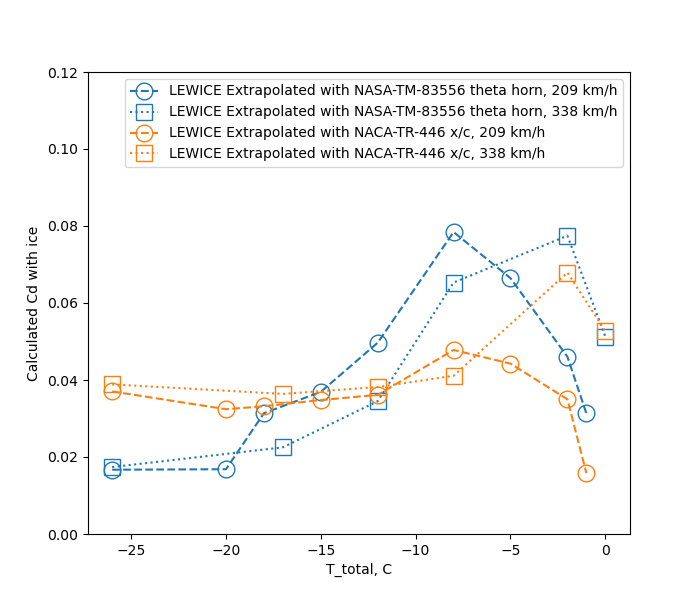
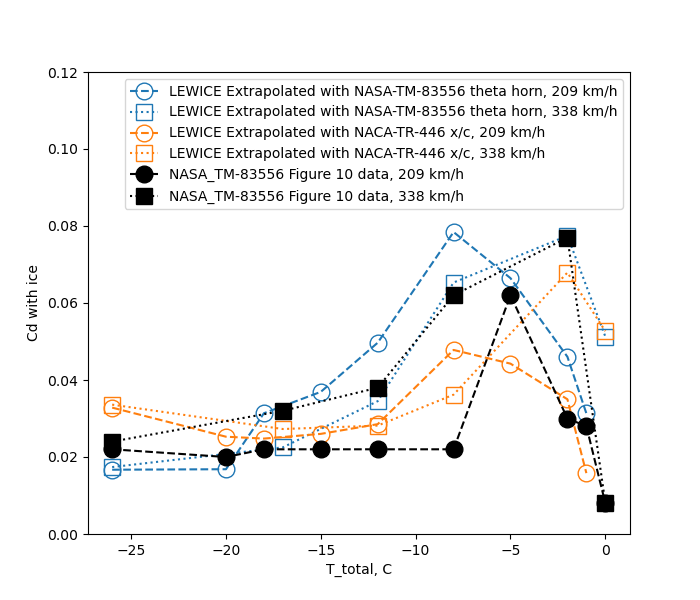
conclusions of ice shapes thread

diff --git a/content/The Historical Selected Bibliography of NACA-NASA Icing Publications.md b/content/The Historical Selected Bibliography of NACA-NASA Icing Publications.md
@@ -92,8 +92,8 @@ While most of the NACA publications are available at the NTRS [^4], some are not
     - Kline, Dwight B.: Investigation of Meteorological Conditions Associated with Aircraft Icing in Layer-Type Clouds for 1947-48 Winter. NACA-TN-1793, 1949.  
     - Kline, Dwight B., and Walker, Joseph A.: Meteorological Analysis of Icing Conditions Encountered in Low-Altitude Stratiform Clouds. NACA-TN-2306, 1951.  
     - Lewis, William: Icing Properties of Noncyclonic Winter Stratus Clouds. NACA-TN-1391, 1947.  
-    - Lewis, William, and Hoecker, Walter H., Jr.: Observations of Icing Conditions Encountered in Flight During 1948. NACA-TN-1904, 1949.  
-    - Lewis, William, Kline, Dwight B., and Steinmetz, Charles P.: A Further Investigation of the Meteorological Conditions Conducive to Aircraft Icing. NACA-TN-1424, 1947.  
+    - Lewis, William, and Hoecker, Walter H., Jr.: Observations of Icing Conditions Encountered in Flight During 1948. [NACA-TN-1904](NACA-TN-1904.md), 1949.  
+    - Lewis, William, Kline, Dwight B., and Steinmetz, Charles P.: A Further Investigation of the Meteorological Conditions Conducive to Aircraft Icing. [NACA-TN-1424](NACA-TN-1424.md), 1947.  
     - Perkins, Porter J.: Preliminary Survey of Icing Conditions Measured During Routine Transcontinental Airline Operation. NACA-RM-E52J06, 1952.  
     - Perkins, Porter J.: Statistical Survey of Icing Data Measured on Scheduled Airline Flights over the United States and Canada from November 1951 to June 1952. NACA-RM-E55F28a, 1955.  
     - Perkins, Porter J.: Icing Frequencies Experienced During Climb and Descent by Fighter-Interceptor Aircraft. NACA-TN-4314, 1958.  
@@ -108,20 +108,20 @@ While most of the NACA publications are available at the NTRS [^4], some are not
     - Hacker, Paul T.: Experimental Values of the Surface Tension of Supercooled Water. NACA-TN-2510, 1951.  
     - Dorsch, Robert G., and Boyd, Bemrose: X-Ray Diffraction Study of the Internal Structure of Supercooled Water. NACA-TN-2532, 1951.  
     - Dorsch, Robert G., and Levine, Joseph: A Photographic Study of Freezing of Water Droplets Falling Freely in Air. NACA-RM-E51L17, 1952.  
-    - Lowell, Herman H.: Maximum Evaporation Rates of Water Droplets Approaching Obstacles the Atmosphere under Icing Conditions. NACA-TN-3024, 1953.  
-    - Hardy, J. K.: Kinetic Temperature of Wet Surfaces A Method of Calculating the Amount of Alcohol Required to Prevent Ice, and the Derivation of the Psychrometric Equation. NACA-ARR-5G13, 1945.  
+    - Lowell, Herman H.: Maximum Evaporation Rates of Water Droplets Approaching Obstacles the Atmosphere under Icing Conditions. [NACA-TN-3024](NACA-TN-3024.md), 1953.  
+    - Hardy, J. K.: Kinetic Temperature of Wet Surfaces A Method of Calculating the Amount of Alcohol Required to Prevent Ice, and the Derivation of the Psychrometric Equation. [NACA-ARR-5G13](NACA-ARR-5G13.md), 1945.  
 
 - Meteorological Instruments
 
     - Neel, Carr B., Jr., and Steinmetz, Charles P.: The Calculated and Measured Performance Characteristics of a Heated-Wire Liquid-Water-Content Meter for Measuring Icing Severity. NACA-TN-2615, 1952.  
-    - Lewis, William, Perkins, Porter J., and Brun, Rinaldo J.: Procedure for Measuring Liquid-Water Content and Droplet Sizes in Super-cooled Clouds by Rotating Multicylinder Method. NACA-RM-E53D23, 1953.  
+    - Lewis, William, Perkins, Porter J., and Brun, Rinaldo J.: Procedure for Measuring Liquid-Water Content and Droplet Sizes in Super-cooled Clouds by Rotating Multicylinder Method. [NACA-RM-E53D23](NACA-RM-E53D23.md), 1953.  
     - McCullough, Stuart, and Perkins, Porter J.: Flight Camera for Photographing Cloud Droplets in Natural Suspension in the Atmosphere. NACA-RM-E50K01a, 1951.  
     - Perkins, Porter J.: Flight Instrument for Measurement of Liquid-Water Content in Clouds at Temperatures Above and Below Freezing. NACA-RM-E50J12a, 1951.  
     - Perkins, Porter J., McCullough, Stuart, and Lewis, Ralph D.: A Simplified Instrument for Recording and Indicating Frequency and Intensity of Icing Conditions Encountered in Flight. NACA-RM-E51E16, 1951.  
     - Brun, Rinaldo J., Levine, Joseph, and Kleinknecht, Kenneth S.: An Instrument Employing a Coronal Discharge for the Determination of Droplet-Size Distribution in Clouds. NACA-TN-2458, 1951.  
     - Levine, Joseph, and Kleinknecht, Kenneth S.: Adaptation of a Cascade Impactor to Flight Measurement of Droplet Size in Clouds. NACA-RM-E51G05, 1951.  
-    - Howell, Wallace E.: Comparison of Three Multicylinder Icing Meters and Critique of Multicylinder Method. NACA-TN-2708, 1952.  
-    - Jones, Alun R., and Lewis, William: A Review of Instruments Developed for the Measurement of the Meteorological Factors Conducive to Aircraft Icing. NACA-RM-A9C09, 1949.  
+    - Howell, Wallace E.: Comparison of Three Multicylinder Icing Meters and Critique of Multicylinder Method. [NACA-TN-2708](NACA-TN-2708.md), 1952.  
+    - Jones, Alun R., and Lewis, William: A Review of Instruments Developed for the Measurement of the Meteorological Factors Conducive to Aircraft Icing. [NACA-RM-A9C09](NACA-RM-A9C09.md), 1949.  
     - Neel, Carr B., Jr.: A Heated-Wire Liquid-Water-Content Instrument and Results of Initial Flight Tests in Icing Conditions. NACA-RM-A54I23, 1955.  
     - Hacker, Paul T.: An Oil-Stream Photomicrographic Aeroscope for Obtaining Cloud Liquid-Water Content and Droplet Size Distribution in Flight. NACA-TN-3592, 1956.  
     - Bergrun, Norman R.: An Empirical Method Permitting Rapid Determination of the Area, Rate, and Distribution of Water-Drop Impingement on an Airfoil of Arbitrary Section at Subsonic Speeds. NACA-TN-2476, 1951.  
@@ -134,8 +134,8 @@ While most of the NACA publications are available at the NTRS [^4], some are not
     - Serafini, John S.: Impingement of Water Droplets on Wedges and Double- Wedge Airfoils at Supersonic Speeds. NACA-TR-1159, 1954. (Supersedes NACA-TN-2971.)  
     - Brun, Rinaldo J., Gallagher, Helen M., and Vogt, Dorothea E.: Impingement of Water Droplets on NACA 65A004 Airfoil and Effect of Change in Airfoil Thickness from 12 to 4 Percent at 4° Angle of Attack. NACA-TN-3047, 1953.  
     - Brun, Rinaldo J., Gallagher, Helen M., and Vogt, Dorothea E.: Impingement of Water Droplets on NACA 651-208 and 651-212 Airfoils at 4° Angle of Attack. NACA-TN-2952, 1953.  
-    - Brun, Rinaldo J., and Mergler, Harry W.: Impingement of Water Droplets on a Cylinder in an Incompressible Flow Field and Evaluation of Rotating Multicylinder Method for Measurement of Droplet-Size Distribution, Volume-Median Droplet Size, and Liquid-Water Content in Clouds. NACA-TN-2904, 1953.  
-    - Brun, Rinaldo J., Serafini, John S., and Gallagher, Helen M.: Impingement of Cloud Droplets on Aerodynamic Bodies as Affected by Compressibility of Air Flow Around the Body. NACA-TN-2903, 1953.  
+    - Brun, Rinaldo J., and Mergler, Harry W.: Impingement of Water Droplets on a Cylinder in an Incompressible Flow Field and Evaluation of Rotating Multicylinder Method for Measurement of Droplet-Size Distribution, Volume-Median Droplet Size, and Liquid-Water Content in Clouds. [NACA-TN-2904](NACA-TN-2904.md), 1953.  
+    - Brun, Rinaldo J., Serafini, John S., and Gallagher, Helen M.: Impingement of Cloud Droplets on Aerodynamic Bodies as Affected by Compressibility of Air Flow Around the Body. [NACA-TN-2903](NACA-TN-2903.md), 1953.  
     - Guibert, A. G., Janssen, E., and Robbins, W. M.: Determination of Rate, Area, and Distribution of Impingement of Waterdrops on Various Airfoils from Trajectories Obtained on the Differential Analyzer. NACA-RM-9A05, 1949.  
     - Dorsch, Robert G., and Brun, Rinaldo J.: A Method for Determining Cloud-Droplet Impingement on Swept Wings. NACA-TN-2931, 1953.  
     - Brun, Rinaldo J., and Dorsch, Robert G.: Impingement of Water Droplets on an Ellipsoid with Fineness Ratio 10 in Axisymmetric Flow. NACA-TN-3147, 1954.  
@@ -143,11 +143,11 @@ While most of the NACA publications are available at the NTRS [^4], some are not
     - Dorsch, Robert G., and Brun, Rinaldo J.: Variation of Local Liquid-Water Concentration about an Ellipsoid of Fineness Ratio 5 Moving in a Droplet Field. NACA-TN-3153, 1954.  
     - Brun, Rinaldo J., Gallagher, Helen M., and Vogt, Dorothea E.: Impingement of Water Droplets on NACA 65A004 Airfoil at 8° Angle of Attack. NACA-TN-3155, 1954.  
     - Brun, Rinaldo J., and Dorsch, Robert G.: Variation of Local Liquid-Water Concentration about an Ellipsoid of Fineness Ratio 10 Moving in a Droplet Field. NACA-TN-3410, 1955.  
-    - von Glahn, Uwe H., Gelder, Thomas F., and Smyers, William H., Jr.: A Dye-Tracer Technique for Experimentally Obtaining Impingement Characteristics of Arbitrary Bodies and a Method for Determining Droplet Size Distribution. NACA-TN-3338, 1955.  
+    - von Glahn, Uwe H., Gelder, Thomas F., and Smyers, William H., Jr.: A Dye-Tracer Technique for Experimentally Obtaining Impingement Characteristics of Arbitrary Bodies and a Method for Determining Droplet Size Distribution. [NACA-TN-3338](NACA-TN-3388.md), 1955.  
     - Dorsch, Robert G., Saper, Paul G., and Kadow, Charles F.: Impingement of Water Droplets on a Sphere. NACA-TN-3587, 1955.  
     - Lewis, William, and Brun, Rinaldo J.: Impingement of Water Droplets on a Rectangular Half Body in a Two-Dimensional Incompressible Flow Field. NACA-TN-3658, 1956.  
     - Brun, Rinaldo J., and Vogt, Dorothea E.: Impingement of Water Droplets on NACA 65A004 Airfoil at 0° Angle of Attack. NACA-TN-3586, 1955.  
-    - Brun, Rinaldo J., Lewis, William, Perkins, Porter J., and Serafini, John S.: Impingement of Cloud Droplets and Procedure for Measuring Liquid-Water Content and Droplet Sizes in Supercooled Clouds by Rotating Multicylinder Method. NACA-TR-1215, 1955. (Supersedes NACA TN’s 2903, 2904, and NACA-RM-E53D23)  
+    - Brun, Rinaldo J., Lewis, William, Perkins, Porter J., and Serafini, John S.: Impingement of Cloud Droplets and Procedure for Measuring Liquid-Water Content and Droplet Sizes in Supercooled Clouds by Rotating Multicylinder Method. [NACA-TR-1215](NACA-TR-1215.md), 1955. (Supersedes NACA TN’s 2903, 2904, and NACA-RM-E53D23)  
     - Brun, Rinaldo J.: Cloud-Droplet Ingestion in Engine Inlets with Inlet Velocity Ratios of 1_0 and 0_7. NACA-TR-1317 (supersedes NACA-TN-3593), 1956.  
     - Gelder, Thomas F.: Droplet Impingement and Ingestion by Supersonic Nose Inlet in Subsonic Tunnel Conditions. NACA-TN-4268, 1958.  
     - Gelder, Thomas F., Smyers, William H., Jr., and von Glahn, Uwe H.: Experimental Droplet Impingement on Several Two-Dimensional Airfoils with Thickness Ratios of 6 to 16 Percent. NACA-TN-3839, 1956.  
@@ -190,12 +190,12 @@ While most of the NACA publications are available at the NTRS [^4], some are not
 
 - Wing Ice Protection
 
-    - Hardy, J. K.: An Analysis of the Dissipation of Heat in Conditions of Icing from a Section of the Wing of the C-46 Airplane. NACA-TR-831, 1945. (Formerly NACA-ARR-4I11a.)  
-    - Neel, Carr B., Jr., Bergrun, Norman R., Jukoff, David, and Schlaff, Bernard A.: The Calculation of the Heat Required for Wing Thermal Ice Prevention in Specified Icing Conditions. NACA-TN-1472, 1947.  
+    - Hardy, J. K.: An Analysis of the Dissipation of Heat in Conditions of Icing from a Section of the Wing of the C-46 Airplane. [NACA-TR-831](NACA-TR-831.md), 1945. (Formerly NACA-ARR-4I11a.)  
+    - Neel, Carr B., Jr., Bergrun, Norman R., Jukoff, David, and Schlaff, Bernard A.: The Calculation of the Heat Required for Wing Thermal Ice Prevention in Specified Icing Conditions. [NACA-TN-1472](NACA-TN-1472.md), 1947.  
     - Gray, Vernon H., Bowden, Dean T., and von Glahn, Uwe H.: Preliminary Results of Cyclical De-icing of a Gas-Heated Airfoil. NACA-RM-E51J29, 1952.  
     - Lewis, James P., and Bowden, Dean T.: Preliminary Investigation of Cyclic De-Icing of an Airfoil Using an External Electric Heater. NACA-RM-E51J30, 1952.  
     - Gelder, Thomas F., and Lewis, James P.: Comparison of Heat Transfer from Airfoil in Natural and Simulated Icing Conditions. NACA-TN-2480, 1951.  
-    - Callaghan, Edmund E., and Serafini, John S.: A Method for Rapid Determination of the Icing Limit of a Body in Terms of the Stream Conditions. NACA-TN-2914, 1953.  
+    - Callaghan, Edmund E., and Serafini, John S.: A Method for Rapid Determination of the Icing Limit of a Body in Terms of the Stream Conditions. [NACA-TN-2914](NACA-TN-2914.md), 1953.  
     - Callaghan, Edmund E., and Serafini, John S.: Analytical Investigation of Icing Limit for Diamond Shaped Airfoil in Transonic and Supersonic Flow. NACA-TN-2861, 1953.  
     - Ruggeri, Robert S.: De-Icing and Runback Characteristics of Three Cyclic Electric, External Deicing Boots Employing Chordwise Shedding. NACA-RM-E53C26, 1953.  
     - Gray, Vernon H., and Bowden, Dean T.: Comparison of Several Methods of Cyclic De-Icing of a Gas-Heated Airfoil. NACA-RM-E53C27, 1953.  
@@ -206,14 +206,14 @@ While most of the NACA publications are available at the NTRS [^4], some are not
 
 - Performance Penalties
 
-    - von Glahn, Uwe H., and Gray, Vernon H.: Effect of Ice Formations on Section Drag of Swept NACA 63A-009 Airfoil with Partial-Span Leading-Edge Slat for Various Modes of Thermal Ice Protection. NACA-RM-E53J30, 1954.  
-    - Gray, Vernon H., and von Glahn, Uwe H.: Effect of Ice and Frost Formations on Drag of NACA 651_212 Airfoil for Various Modes of Thermal Ice Protection. NACA-TN-2962, 1953.  
-    - Preston, G. Merritt, and Blackman, Calvin C.: Effects of Ice Formations on Airplane Performance in Level Cruising Flight. NACA-TN-1598, 1948.  
+    - von Glahn, Uwe H., and Gray, Vernon H.: Effect of Ice Formations on Section Drag of Swept NACA 63A-009 Airfoil with Partial-Span Leading-Edge Slat for Various Modes of Thermal Ice Protection. [NACA-RM-E53J30](NACA-RM-E53J30.md), 1954.  
+    - Gray, Vernon H., and von Glahn, Uwe H.: Effect of Ice and Frost Formations on Drag of NACA 651_212 Airfoil for Various Modes of Thermal Ice Protection. [NACA-TN-2962](NACA-TN-2962.md), 1953.  
+    - Preston, G. Merritt, and Blackman, Calvin C.: Effects of Ice Formations on Airplane Performance in Level Cruising Flight. [NACA-TN-1598](NACA-TN-1598.md), 1948.  
     - Gelder, Thomas F., Lewis, James P., and Koutz, Stanley L.: Icing Protection for a Turbojet Transport Airplane: Heating Requirements, Methods of Protection, and Performance Penalties. NACA-TN-2866, 1953.  
     - Bowden, Dean T.: Effect of Pneumatic De-Icers and Ice Formations on Aerodynamic Characteristics of an Airfoil. NACA-TN-3564, 1956.  
-    - Gray, Vernon H.: Correlations Among Ice Measurements, Impingement Rates, Icing Conditions and Drag Coefficients for an Unswept NACA 65A004 Airfoil. NACA-TN-4151, 1958.  
-    - Gray, Vernon H., and von Glahn, Uwe H.: Aerodynamic Effects Caused by Icing of an Unswept NACA 65A004 Airfoil. NACA-TN-4155, 1957.  
-    - Gray, Vernon H.: Prediction of Aerodynamic Penalties Caused by Ice Formations on Various Airfoils. NASA-TM-D-2166, 1964.  
+    - Gray, Vernon H.: Correlations Among Ice Measurements, Impingement Rates, Icing Conditions and Drag Coefficients for an Unswept NACA 65A004 Airfoil. [NACA-TN-4151](NACA-TN-4151.md), 1958.  
+    - Gray, Vernon H., and von Glahn, Uwe H.: Aerodynamic Effects Caused by Icing of an Unswept NACA 65A004 Airfoil. [NACA-TN-4155](NACA-TN-4151.md), 1957.  
+    - Gray, Vernon H.: Prediction of Aerodynamic Penalties Caused by Ice Formations on Various Airfoils. [NASA-TM-D-2166](NACA-TN-D-2166.md), 1964.  
 
 - Windshield Ice Protection
 
@@ -249,23 +249,23 @@ While most of the NACA publications are available at the NTRS [^4], some are not
 - Heat Transfer
 
     - Gray, Vernon H.: Improvements in Heat Transfer for Anti-Icing of Gas-Heated Airfoils with Internal Fins and Partitions. NACA-TN-2126, 1950.  
-    - Gray, Vernon H.: Simple Graphical Solution of Heat Transfer and Evaporation from Surface Heated to Prevent Icing. NACA-TN-2799, 1952.  
-    - Callaghan, Edmund E.: Analogy Between Mass and Heat Transfer with Turbulent Flow. NACA-TN-3045, 1953.  
-    - Coles, Willard D., and Ruggeri, Robert S.: Experimental Investigation of Sublimation of Ice at Subsonic and Supersonic Speeds and its Relation to Heat Transfer. NACA-TN-3104, 1954.  
+    - Gray, Vernon H.: Simple Graphical Solution of Heat Transfer and Evaporation from Surface Heated to Prevent Icing. [NACA-TN-2799](NACA-TN-2799.md), 1952.  
+    - Callaghan, Edmund E.: Analogy Between Mass and Heat Transfer with Turbulent Flow. [NACA-TN-3045](NACA-TN-3045.md), 1953.  
+    - Coles, Willard D., and Ruggeri, Robert S.: Experimental Investigation of Sublimation of Ice at Subsonic and Supersonic Speeds and its Relation to Heat Transfer. [NACA-TN-3104](NACA-TN-3104.md), 1954.  
     - Coles, Willard D.: Experimental Determination of Thermal Conductivity of Low-Density Ice. NACA-TN-3143, 1954.  
-    - Coles, Willard D.: Icing Limit and Wet-Surface Temperature Variation for Two Airfoil Shapes under Simulate High-Speed Flight Conditions. NACA-TN-3396, 1955.  
+    - Coles, Willard D.: Icing Limit and Wet-Surface Temperature Variation for Two Airfoil Shapes under Simulate High-Speed Flight Conditions. [NACA-TN-3396](NACA-TN-3396.md), 1955.  
     - von Glahn, Uwe H.: Preliminary Results of Heat Transfer from a Stationary and Rotating Ellipsoidal Spinner. NACA-EM-E53F02, 1953.  
 
 - Miscellaneous
 
-    - Gray, Vernon H.: Correlation of Airfoil Ice Formations and Their Aerodynamic Effects With Impingement and Flight Conditions. SAE preprint No. 225 (paper presented at SAE National Aeronautics Meeting), October 1957.  
+    - Gray, Vernon H.: Correlation of Airfoil Ice Formations and Their Aerodynamic Effects With Impingement and Flight Conditions. [SAE preprint No. 225](NACA-TN-D-2166.md) (paper presented at SAE National Aeronautics Meeting), October 1957.  
     - von Glahn, Uwe H.: The Icing Problem, presented at Ottawa AGARD Conference. AG 19/P9, June 10-17 1955.  
     - von Glahn, Uwe H.: Some Considerations of the Need for Icing Protection of High-Speed, High-Altitude Airplanes NACA Conference on Some Problems of Aircraft Operation. NASA-TM-82265, 1954.  
     - Lewis, William, and Perkins, Porter J.: A Flight Evaluation and Analysis of the Effect of Icing Conditions on the PG-2 Airship. NACA-TN-4220, 1958.  
     - von Glahn, Uwe H.: Icing Conditions to be Expected in Operation of High-Speed, High-Altitude Airplanes NACA Conference on Some Problems of Aircraft Operation. NASA-TM-82265, 1954.  
     - Anon.: NACA Conference on Aircraft Ice Prevention A Compilation of Papers Presented by NACA Staff Members. 6505/NACA-1947/8, 1947.  
     - Gray, Vernon H.: Heat Requirements for Ice Prevention on Gas-Heated Propellers. SAE preprint No. 424 (paper presented at SAE Annual Meeting, 1950), 1950.  
-    - Bowden, D. T., Gensemer, A. E., and Speen, C. A.: Engineering Summary of Airframe Icing Technical Data. Federal Aviation Agency, FAA-ADS-4, 1964.  
+    - Bowden, D. T., Gensemer, A. E., and Speen, C. A.: Engineering Summary of Airframe Icing Technical Data. Federal Aviation Agency, [FAA-ADS-4](ads4.md), 1964.  
 
 ##Notes:
 [^1]:

diff --git a/content/six_month_review.md b/content/six_month_review.md
@@ -1,0 +1,188 @@
+title: Six Month Review of Blast from the Past: NACA Icing Publications    
+status: draft  
+
+![Figure 8](images/naca-tn-339/Figure 8.png)  
+_One of the earliest icing wind tunnel tests on surface coatings to prevent ice, NACA-TN-339, 1929. Sometimes, there is a learning curve._  
+
+I have been posting for about six months now, 
+so it is time to review how it is going.  
+
+I thank all of my readers. 
+I want to write things that are read, and you make this worthwhile. 
+
+I started out with the statement ["I make selected NACA publications easily accessible to you"]({filename}introduction.md). 
+By some measures, I have been achieving that, 
+and I welcome your opinions of how well I am doing. 
+
+##Things that work
+
+###Interest in the topic  
+
+I presented ["NACA Publications on Aircraft Icing: Cylinders"](https://icinganalysis.github.io/images/cylinder_thread_wrap_up/SAE%20presentation%20Cook.pdf) 
+to the SAE AC-9C Aircraft Icing Technology Committee and it was well received. 
+
+A measure of interest is views of a post. 
+My average post gets about 300 views, 
+which exceeds what I thought it would be (a few dozen, perhaps). 
+
+One post went "viral", by my modest standards, with 4000+ views (and still adds a few now and then), 
+[Messinger, B. L.: Equilibrium Temperature of an Unheated Icing Surface as a Function of Airspeed]({filename}messinger.md). 
+I suppose it is a well known title in aircraft icing, 
+and people want to see it summarized. 
+
+###LinkedIn
+
+I usually post a link to the latest post on my website on LinkedIn. 
+I thought that LinkedIn would be just one of several ways of getting my posts noticed, 
+but it has turned out to be the main avenue. 
+
+I think that having been already connected with several people 
+with interest in the topic on LinkedIn when I started helped get things going.
+My number of connections and followers has grown. 
+The typical views of a post now exceed my number of connections and followers. 
+
+While I do not use cookies and tracking on my website, 
+LinkedIn tracks the posts that I make there. 
+It provides information on "impressions" (how many screens a post rolls by on, I guess) 
+and people "reached" (how many people actually click on an article, I guess).
+The "reached" is about 60% of the "impressions" for my posts. 
+I assume that an interesting quote and image at the top of the LinkedIn post help 
+people to want to click through and read further. 
+
+I am not sure how to quantify things such as the "like" emojis, 
+but each post typically gets some (and thank you for the likes). 
+
+I am not sure how much the hash tags (typically #icinganalysis and #aircrafticing) 
+contribute to views. 
+
+###Git and Github
+
+I am glad that I used a file tracking system from the start. 
+I used git (although there are others). 
+It definitely helps me keep track of things
+(and things are getting complex, with 50+ posts and hundreds of images). 
+It lets me fearlessly revise things while editing 
+(a kind of global "undo" button, as long as I "commit" every so often). 
+Note that both the web content and the python files are under git. 
+
+When a computer drive on my laptop crashed, 
+I was quickly able to get back to writing, 
+as there was a complete copy on github.
+
+The python executable files are available under LGPL license at [icinganalysis.github.io](https://github.com/icinganalysis/icinganalysis.github.io/tree/main/icinganalysis) 
+
+Github also works as the web server. 
+The no-cost tier of service works for me (a website with static HTML files), 
+but if things change the HTML and image files are easy to 
+re-host somewhere else. 
+I do have a domain name, icinganalysis.com, 
+which currently re-directs to icinganalysis.github.io, 
+so I could start using that as the main link. 
+
+##Things that sort-of work
+
+###Progress on the 132 Historic NACA Icing Publications 
+
+To date, I have posted 56 reviews, but only 26 of the from the ["Selected Bibilography of NACA-NASA Aircraft Icing Publications"]({filename}/The Historical Selected Bibliography of NACA-NASA Icing Publications.md).  
+That puts me on a three year trajectory to review them all. 
+(I am not sure that I will get there.) 
+
+I my defense, the other reviews were pertinent topics, 
+and some of them generated much interest 
+(such as [Messinger, B. L.: Equilibrium Temperature of an Unheated Icing Surface as a Function of Airspeed]({filename}messinger.md), 
+[NACA-TN-313, "The Formation of Ice upon Airplanes in Flight"]({filename}NACA-TN-313.md), 
+and [Irving Langmuir, "Super-Cooled Water Droplets in Rising Currents of Cold Saturated Air"]({filename}Langmuir Rising Currents.md) 
+the three most popular posts, each with over 1000 views). 
+
+###Searchability
+
+Searchability is part of accessibility. 
+If someone cannot find the information, it is not very useful. 
+
+When I search "Selected bibliography of NACA-NASA aircraft icing publications" on two search engines
+(duckduckgo.com and google.com), my web page ["Selected Bibilography of NACA-NASA Aircraft Icing Publications"]({filename}/The Historical Selected Bibliography of NACA-NASA Icing Publications.md) 
+shows up on the first page 
+(your experience may be different, as search engines may tailor results to users). 
+This was one of my goals, to make this readily available in a legible form, 
+and machine readable (if you count HTML).
+
+However, if I search "NACA-TN-1904", my review at [NACA-TN-1904 "Observations of Icing Conditions Encountered in Flight During 1948"]({filename}/NACA-TN-1904.md) 
+shows on the first page of duckduckgo.com, but on google.com 
+only my twitter post (which never got traction) about it shows up
+(the review might be somewhere in the google results, many pages down).
+
+I don't know much about search engine optimization, 
+and I don't want to add a lot of junk to the web pages to try and boost it. 
+
+###My web tools
+
+You can see my tools listed at [Web publishing tools]({filename}web publishing tools.md).  
+
+Pelican and markdown have a learning curve. 
+One of these days I might get Latex equations working. 
+The pelican CSS theme "notmyidea" is not perfect for my application, 
+but it works with mobile displays, and I don't 
+want to spend my time perfecting CSS. 
+
+I have grown quite comfortable with the markdown format for writing. 
+The limitations are actually liberating, not getting bogged down into too many options. 
+Markdown also allows one to include HTML if needed. 
+I have found that I prefer things like two simple markdown tables, 
+rather than one complex HTML table with merged cells, 
+both for writing and the final product. 
+
+I have tried other tools stacks for other websites, 
+and this is the one that has worked best for me
+(they all have advantages and challenges). 
+
+##Things that have not worked (yet)
+
+###Interest in the python code files
+
+Github tracks how often a repository is cloned, 
+and [mine](https://github.com/icinganalysis/icinganalysis.github.io/tree/main/icinganalysis) has been cloned a few times. 
+There have been no forks. 
+
+I put a poll on LinkedIn asking if people have used the code, 
+and so far no one has voted that they have used the code. 
+
+The post [Python programming style guide]({filename}python_style_guide.md)  
+received over 300 views, 
+so there appears to be interest in python in general. 
+
+As an experiment, I stopped placing executable code in the repository in May, 
+and no one noticed 
+(or at least no one complained). 
+
+Oh well, I hold out hope that there will be more interest when 
+we get to icing wind tunnel test similarity. 
+
+###Other media and feedback
+
+I made a separate email account for icinganalysis, and no one has commented through that. 
+
+I posted for a while on Twitter, and got no feedback. 
+
+I have had some activity on researchgate.net, 
+mostly from authors who are kindly willing to share their papers. 
+
+There have been some kind text comments on LinkedIn, but not many comments of any sort. 
+
+##Conclusion
+
+Again, I thank my readers. 
+
+I plan to continue posting.
+
+For the upcoming "Icing Wind Tunnel Test Thread" I will be trying something a little different, 
+grouping several publications into a single topic review, 
+and including more post NACA-era information. 
+This may accelerate getting through the publications, 
+but as I said above, I may not get through all 132 NACA icing publications. 
+
+I welcome feedback about what will most useful in future posts to you. 
+
+
+
+
+

diff --git a/content/conclusions_of_the_ice_shapes_thread.md b/content/conclusions_of_the_ice_shapes_thread.md
@@ -200,7 +200,7 @@ and allow extrapolation to larger horn angles (this is a subset of the data in A
 (A comparison to NASA-TM-D-2166 [^9] methods were discussed in the review of [NASA-TM-D-2166]({}NASA-TM-D-2166.md),
 and were found to be of limited accuracy.)
 
-With any of the very approximate extrapolation of Cd, 
+With either of the very approximate extrapolation of Cd, 
 the estimated effects are different than Figure 10 (b) from above. 
 
 ![Figure 10b from NASA-TM-83556](images/nasa-tm-83556/Figure 10b.png)
@@ -211,7 +211,7 @@ With the NACA-TR-446 based extrapolation, the 338 km/h case at -2C is correctly 
 as the case with the largest effect, but the other values do not match Figure 10 (b) well. 
 
 The method using a fit of NASA-TM-83556 horn angle data did not correctly identify the condition with the largest section drag coefficient,
-least the highest Cd test condition was a close second in the analysis. 
+though at least the highest Cd test condition was a close second in the analysis. 
 In general, values do not match Figure 10 (b) well. 
 I suppose that "first-order approximation" (a phrase from NASA-TM-D-2166) applies as a description. 
 
@@ -241,7 +241,7 @@ The lift effects of leading edge ice tend to be small for "typical" angle of att
 but can become significant at higher angle of attack values approaching the clean airfoil Cl_max. 
 Drag has been referred to as a "leading indicator" of lift effects, 
 as the change in drag due to ice a low angles of attack can be measurably significant, 
-while the lift effects may not be. 
+while the lift effects may not be apparent until higher angle of attack are reached. 
 
 At the moment, if one needs accurate data for effects due to ice, 
 a combination of icing wind tunnel test, wind tunnel test, and
@@ -313,7 +313,7 @@ https://software.nasa.gov/software/LEW-18573-1,
 https://ntrs.nasa.gov/citations/19990021235  
 [^8]: Gray, Vernon H., and von Glahn, Uwe H.: Effect of Ice and Frost Formations on Drag of NACA 65<sub>1</sub>-212 Airfoil for Various Modes of Thermal Ice Protection. NACA-TN-2962, 1953.  
 [^9]: Gray, Vernon H.: Prediction of Aerodynamic Penalties Caused by Ice Formations on Various Airfoils. NASA-TM-D-2166, 1964. 
-I could not find a download for this on the nrts, it is available at 0
+I could not find a download for this on the nrts, it is available at 
 [https://archive.org/details/nasa_techdoc_19810068590](https://archive.org/details/nasa_techdoc_19810068590).  
 [^10]:
 1st AIAA Ice Prediction Workshop Workshop in Conjunction with the AIAA AVIATION 2021 Forum All Virtual/Remote Participation 26-29 July 2021, https://icepredictionworkshop.wordpress.com/  
